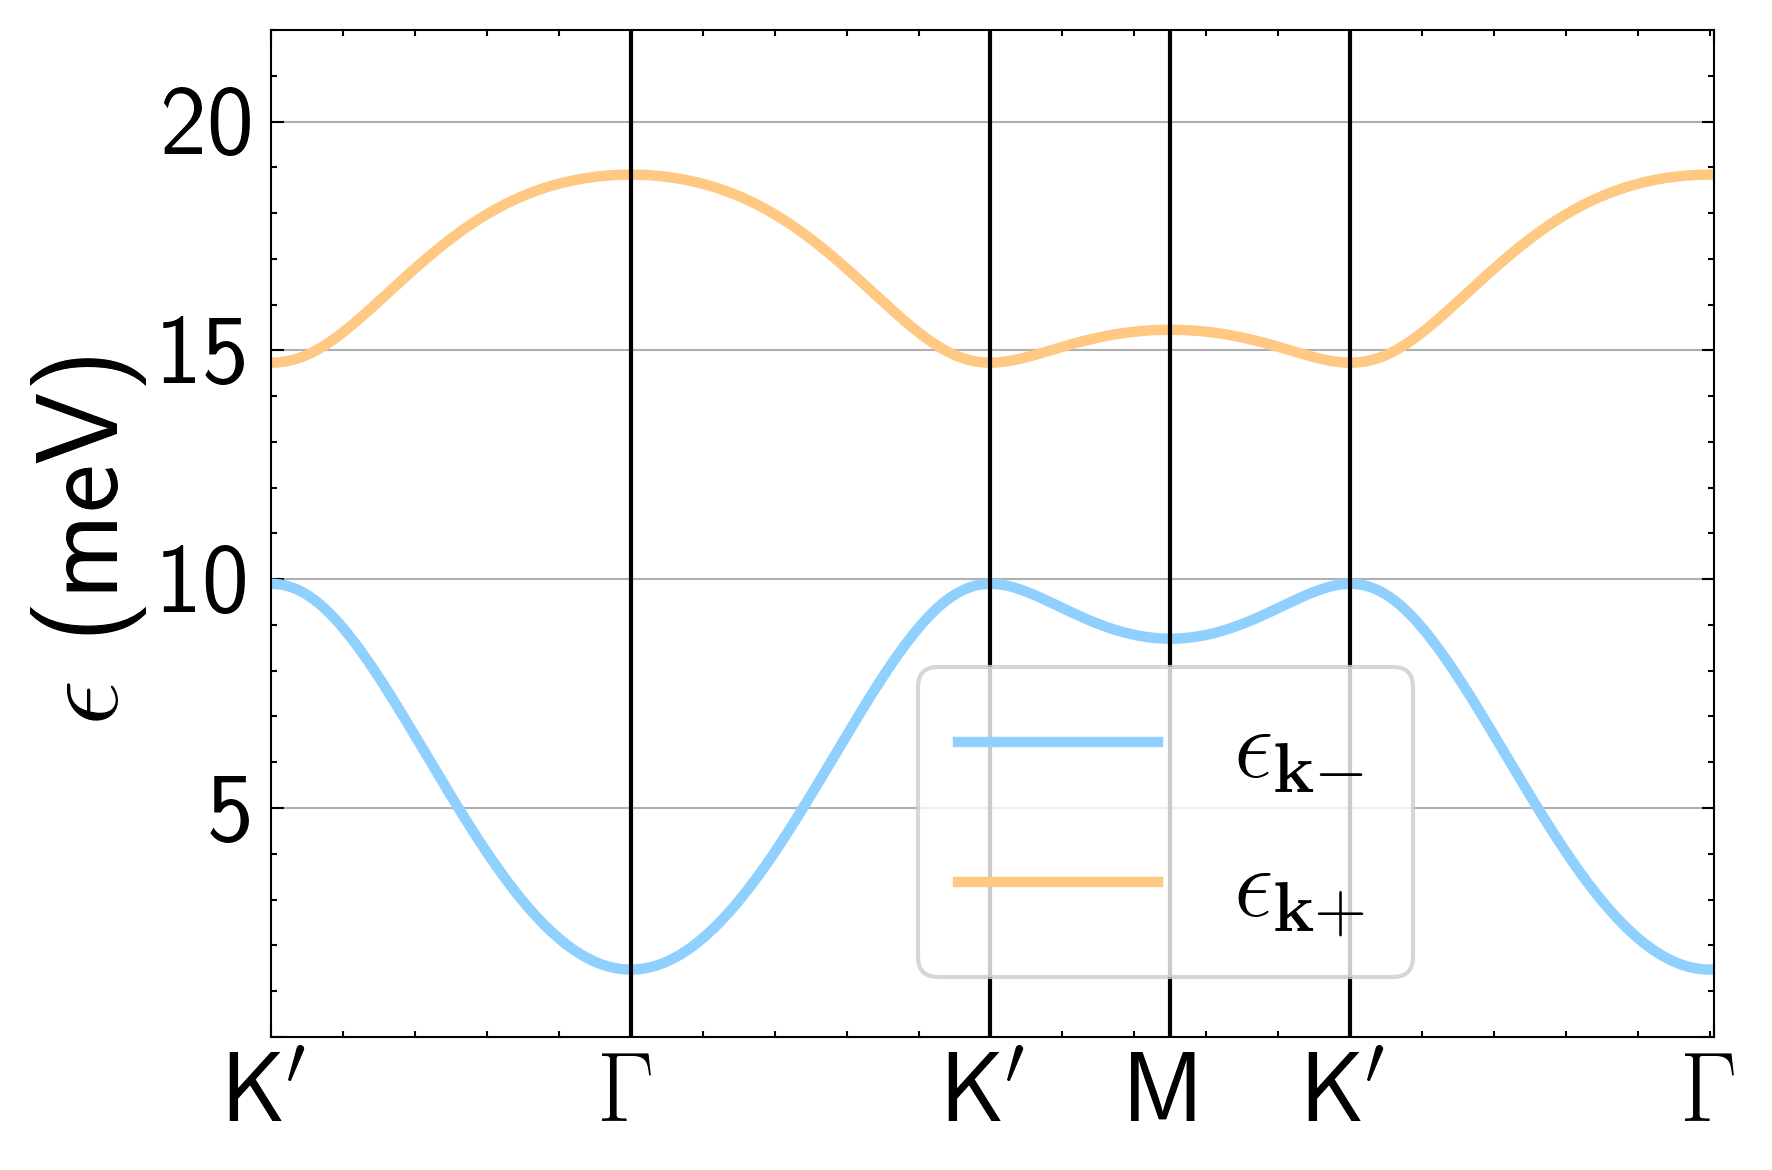
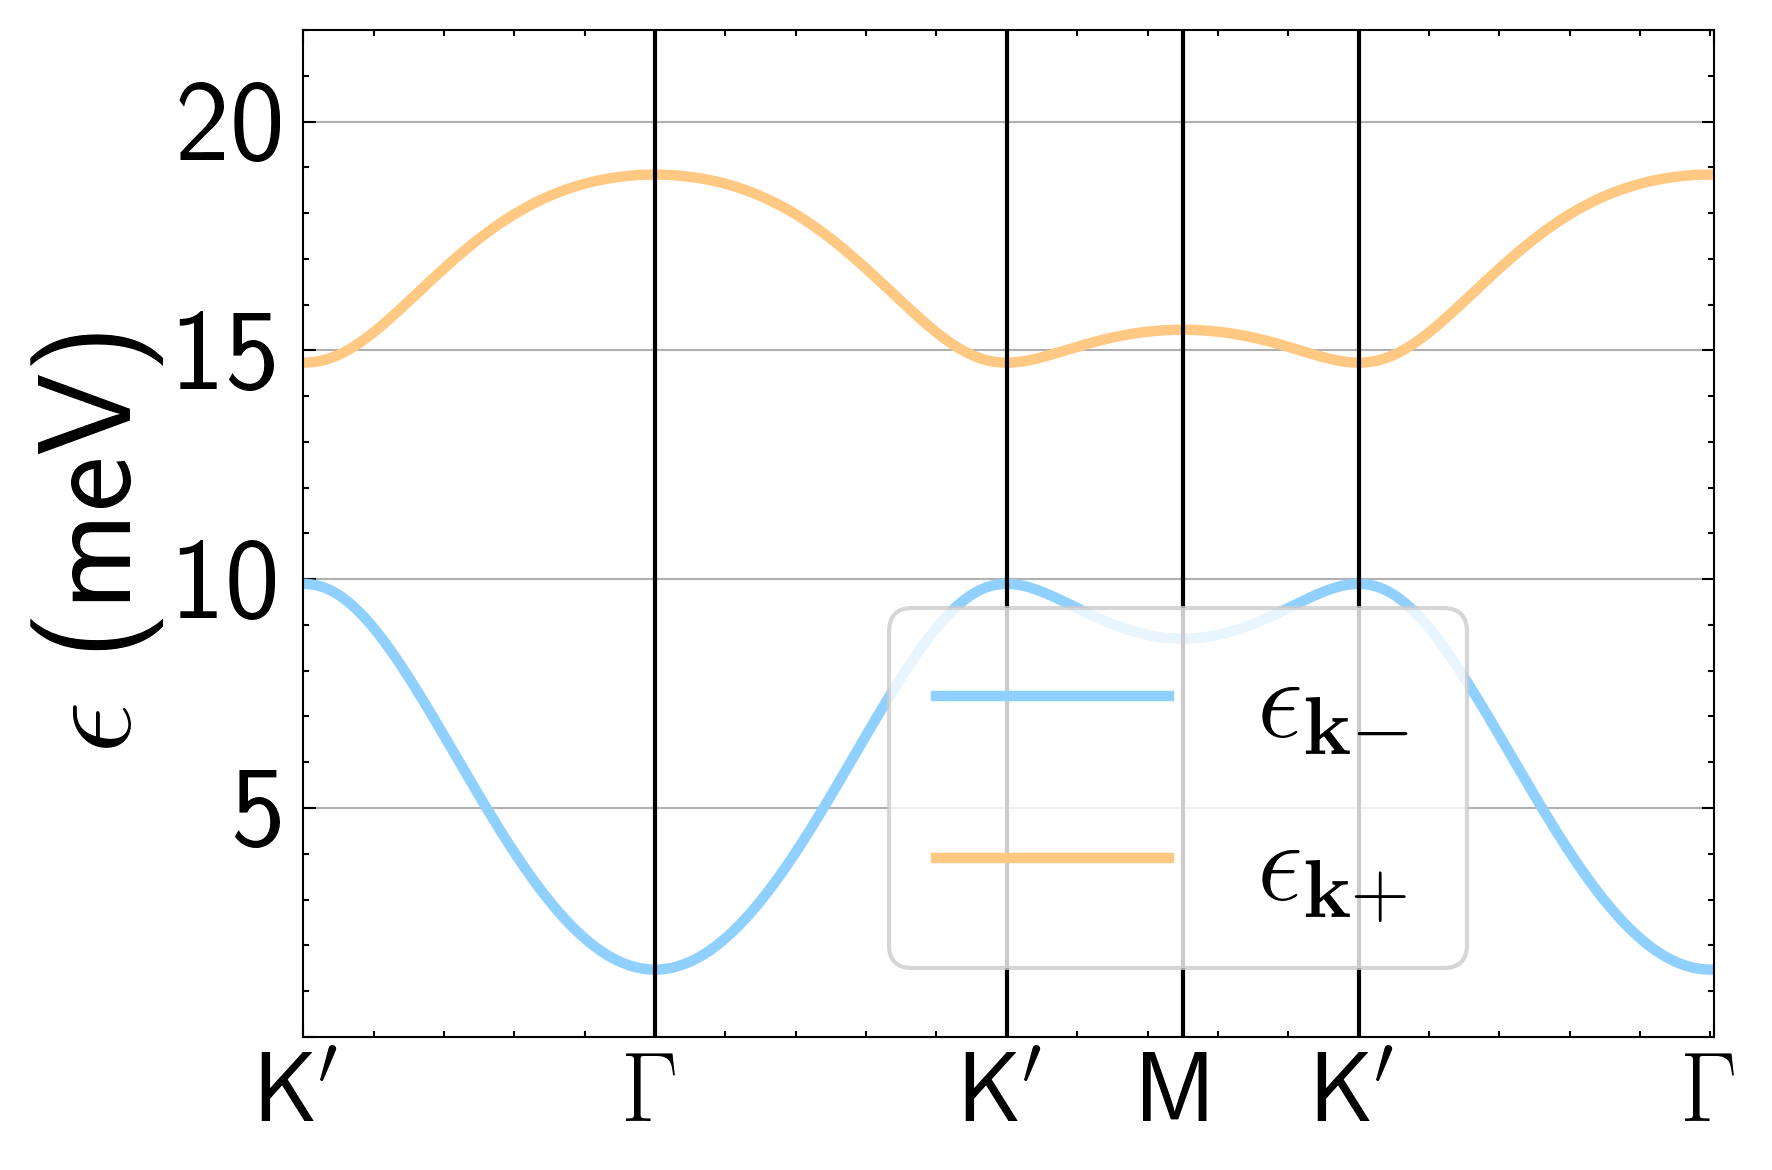
added saving data lines

diff --git a/CrI3_pump_probe.py b/CrI3_pump_probe.py
@@ -9,6 +9,16 @@ from CrI3_raman_scattering import get_RCD, get_energy
 from CrI3_curvature import get_FM_berry_curvature
 import scienceplots
 # %%
+data = np.load('chi_FM_computed.npz')
+chi_FM_lower_T = data['chi_FM_lower_T']
+chi_FM_upper_T = data['chi_FM_upper_T']
+chi_FM_lower_D = data['chi_FM_lower_D']
+chi_FM_upper_D = data['chi_FM_upper_D']
+temperatures   = data['temperatures']
+D_array        = data['D_array']
+w              = data['w']
+
+# %%
 def gaussian_function(x, x0=0, width=1e-3):
     """
     1D Gaussian function
@@ -252,6 +262,16 @@ for j in range(len_T):
     for i in range(len_w):
         chi_FM_lower_T[j][i] = bz_integration_honeycomb( boltzmann_factor(energy_array[1], T=temperatures[j])*RCD_array * gaussian_function(w[i], x0= np.abs(energy_array[1]-energy_array[0]), width=width))/partition_array[j]
         chi_FM_upper_T[j][i] = bz_integration_honeycomb( boltzmann_factor(energy_array[1], T=temperatures[j])*RCD_array * gaussian_function(w[i], x0= np.abs(energy_array[1]-energy_array[0]), width=width))/partition_array[j]
+
+# %% save computed chi arrays
+np.savez('chi_FM_computed.npz',
+         chi_FM_lower_T=chi_FM_lower_T,
+         chi_FM_upper_T=chi_FM_upper_T,
+         chi_FM_lower_D=chi_FM_lower_D,
+         chi_FM_upper_D=chi_FM_upper_D,
+         temperatures=temperatures,
+         D_array=D_array,
+         w=w)
 
 # %% dos weighted CrI3 at zero T
 dos_weighted_FM= np.zeros(len_w)

diff --git a/CrI3_band.py b/CrI3_band.py
@@ -120,12 +120,12 @@ with plt.style.context('science'):
     ax.set_xticks(k_index,k_label, fontsize=24)
     ax.yaxis.grid()
     yticks = ax.get_yticks()
-    ax.set_yticklabels(['' if t == 0 else str(int(t)) for t in yticks], fontsize=24)
+    ax.set_yticklabels(['' if t == 0 else str(int(t)) for t in yticks], fontsize=28)
     ax.set_xlim(0,len(path)) 
     ax.set_ylim(0,22) 
     ax.set_in_layout(True)
-    ax.legend(loc="lower center", bbox_to_anchor=(0.62,0.01), fontsize=24, frameon=True)
-    ax.set_ylabel(r"$\epsilon$ (meV)", fontsize=28)
+    ax.legend(loc="lower center", bbox_to_anchor=(0.62,0.01), fontsize=28, frameon=True)
+    ax.set_ylabel(r"$\epsilon$ (meV)", fontsize=32)
     # $\mathrm{(meV)}$
     fig.tight_layout()
     plt.show()

diff --git a/CrI3_curvature.py b/CrI3_curvature.py
@@ -254,7 +254,7 @@ color_bar_title_M = [r"$AM_{+}$",r"$AM_{-}$"]
 color_bar_title_J = [r"$J_{+}$",r"$J_{-}$"]
 # color_bar_title_exact = [r"$$", r"$-\rho_k^{\text{RL}}\sin 2\psi_k$"]
 
-pads = [7, 15]
+pads = [7, 12]
 with plt.style.context(['science','ieee']):
     fig, ax = panel(figsize=(4,3), nrows=1, ncols=1, width_ratios=[1], height_ratios=[1], hspace=0.1, wspace=0.4)
 
